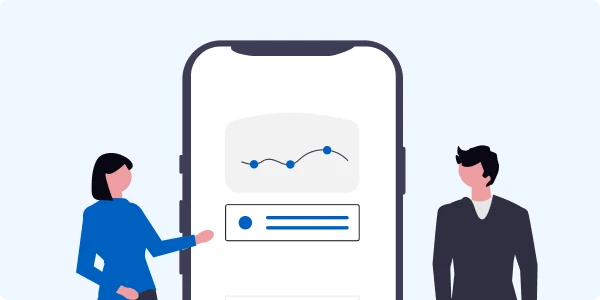
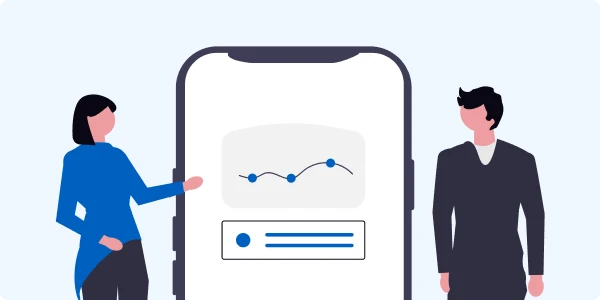
微調整

diff --git a/src/app/demand/ad/page.tsx b/src/app/demand/ad/page.tsx
@@ -10,7 +10,7 @@ import { adTopTitle } from '@/lib/const/BreadCrumbTitle';
 
 export const metadata = {
   title:
-    'インタラクティブ広告の制作代行 | 開発実績多数！ソフトウェア開発の依頼は株式会社レクトへ',
+    'インタラクティブ広告の制作承ります | 株式会社レクト',
 };
 
 const Demand = () => {

diff --git a/src/app/demand/ad/KeyVisual.tsx b/src/app/demand/ad/KeyVisual.tsx
@@ -23,6 +23,7 @@ const sxStyles = {
       gridRow: '3/4',
       gridColumn: '1/2',
       marginInline: 'auto',
+      maxWidth: '300px',
     },
     '>div': {
       width: '200% !important',
